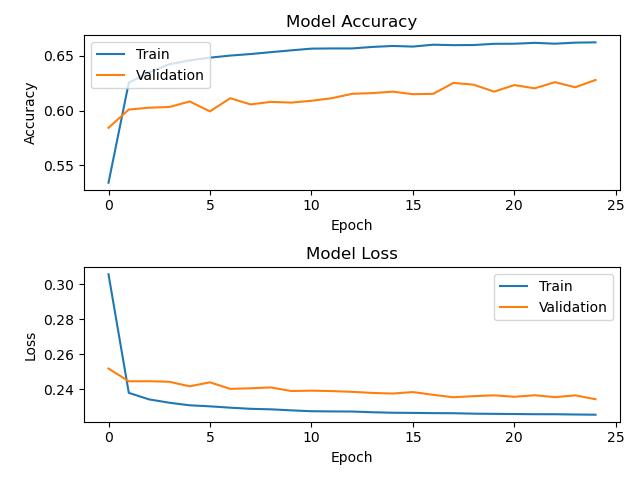
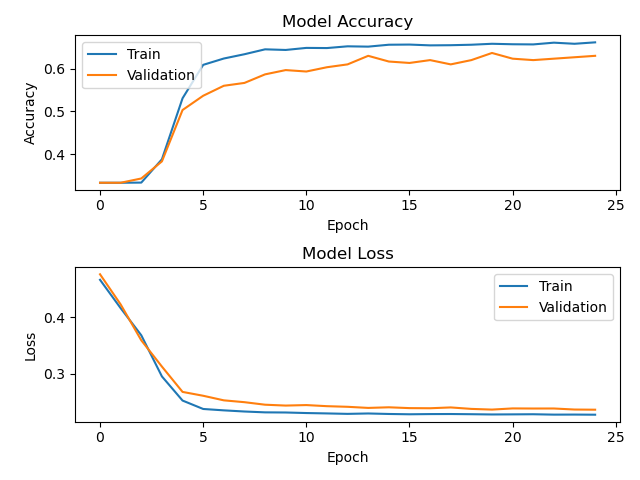
version10

diff --git a/word2vec.py b/word2vec.py
@@ -7,25 +7,27 @@ logging.basicConfig(format='%(asctime)s : %(levelname)s : %(message)s', level=lo
 
 def extract_questions():
     """
-    Extract questions for making word2vec model.
+    Extract sentences for making word2vec model.
     """
-    df1 = pd.read_csv("./data/train.csv")
-    df2 = pd.read_csv("./data/test.csv")
+    df1 = pd.read_csv("data/snli_1.0_train.csv")
+    df2 = pd.read_csv("data/snli_1.0_test.csv")
 
-    for dataset in [df1, df2]:
+    for dataset in [df1]:
         for i, row in dataset.iterrows():
             if i != 0 and i % 1000 == 0:
                 logging.info("read {0} sentences".format(i))
 
-            if row['question1']:
-                yield gensim.utils.simple_preprocess(row['question1'])
-            if row['question2']:
-                yield gensim.utils.simple_preprocess(row['question2'])
+            if row['sentence1']:
+                yield gensim.utils.simple_preprocess(row['sentence1'])
+            if row['sentence2']:
+                yield gensim.utils.simple_preprocess(row['sentence2'])
+            if row['similarity']:
+                yield gensim.utils.simple_preprocess(row['similarity'])
 
-
-documents = list(extract_questions())
+documents = []
+documents = [x for x in next(extract_questions())]
 logging.info("Done reading data file")
 
 model = gensim.models.Word2Vec(documents, size=300)
-model.train(documents, total_examples=len(documents), epochs=10)
-model.save("./data/Quora-Question-Pairs.w2v")
+model.train(documents, total_examples=len(documents), epochs=50)
+model.wv.save("./data/mlstmkerasembeddings.bin")

diff --git a/util.py b/util.py
@@ -71,7 +71,7 @@ def make_w2v_embeddings(df, embedding_dim=300, empty_w2v=False):
     if empty_w2v:
         word2vec = EmptyWord2Vec
     else:
-        word2vec = KeyedVectors.load_word2vec_format("data/GoogleNews-vectors-negative300.bin.gz", binary=True)
+        word2vec = KeyedVectors.load("./data/mlstmkerasembeddings.bin")
         # word2vec = gensim.models.word2vec.Word2Vec.load("./data/Quora-Question-Pairs.w2v").wv
 
     for index, row in df.iterrows():
